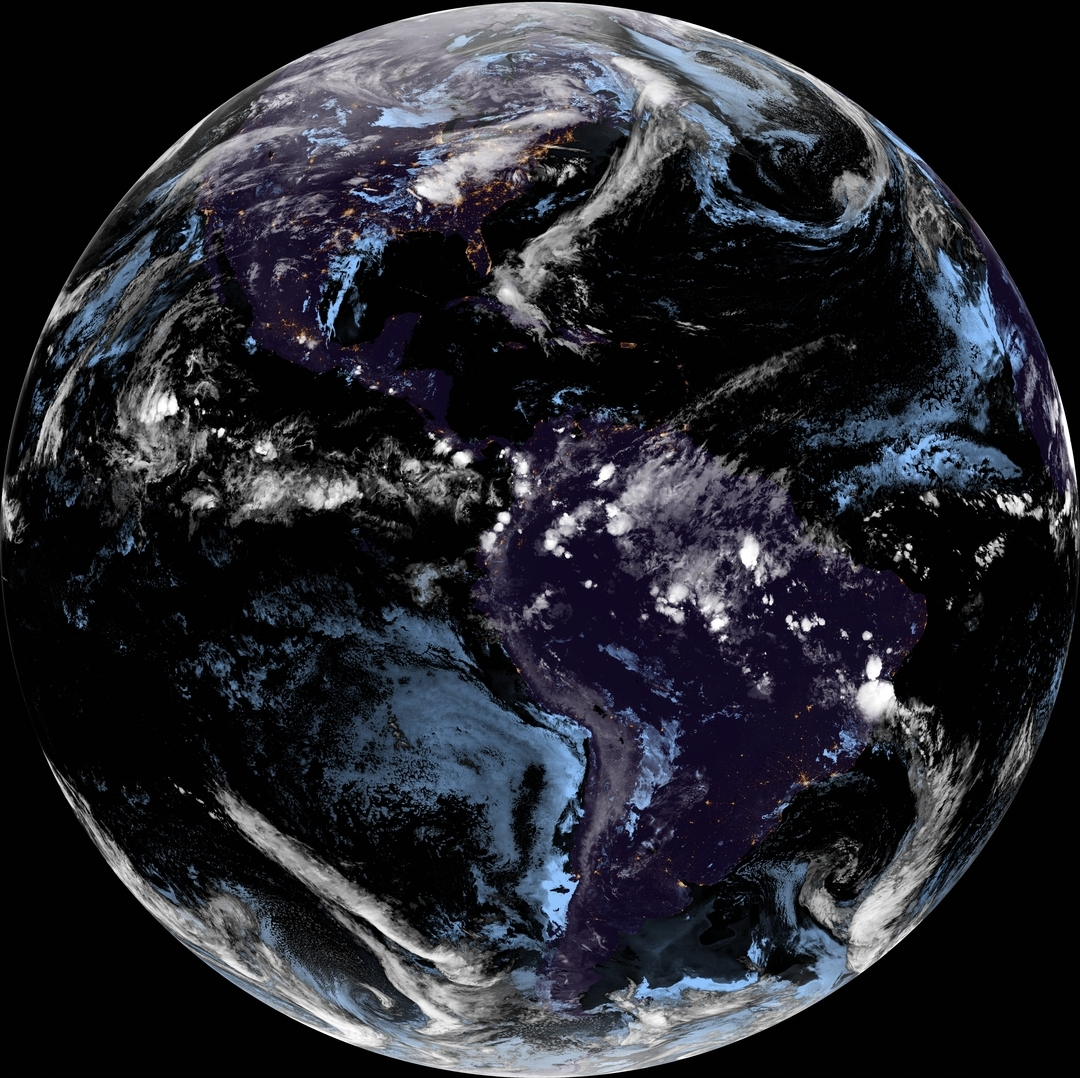
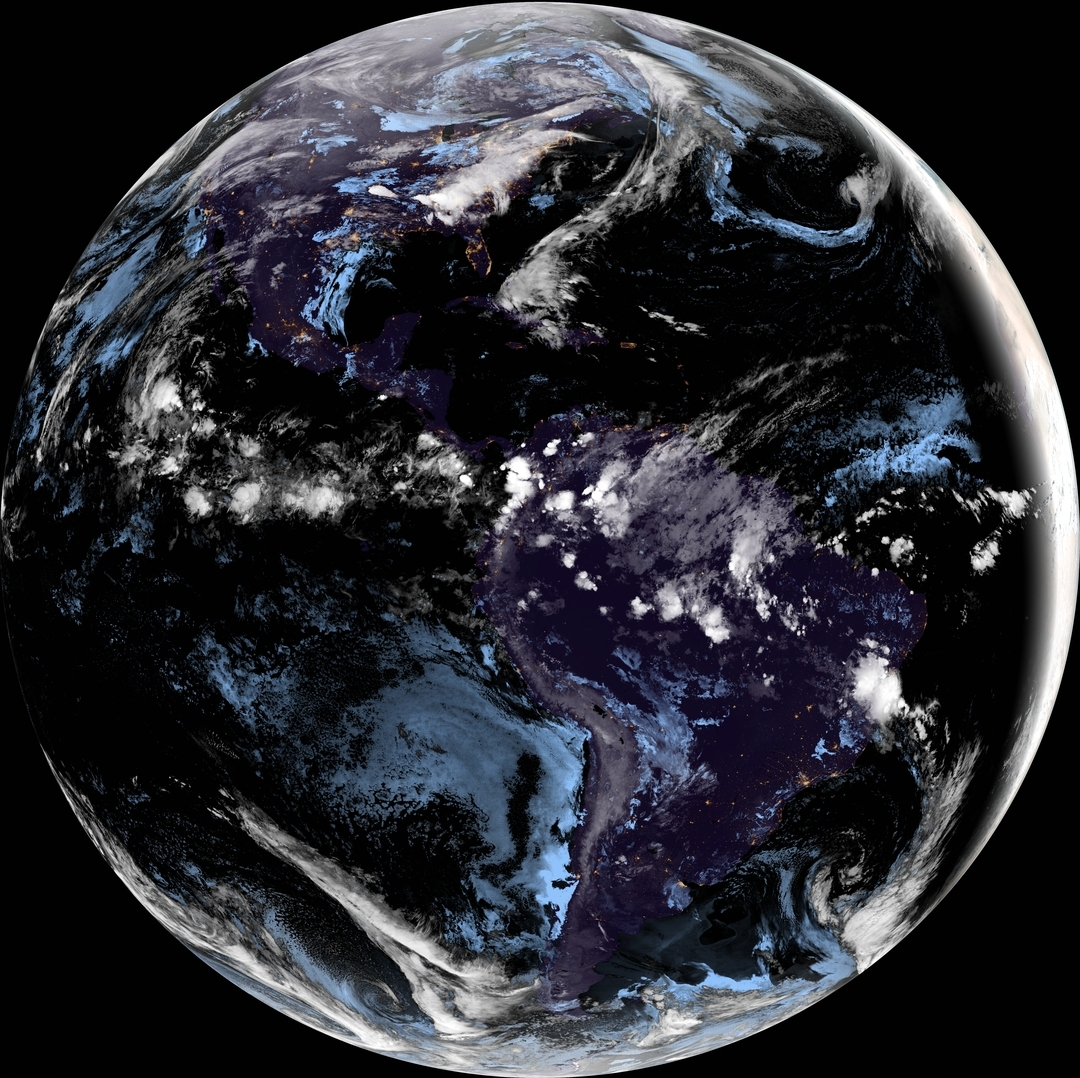
update images

diff --git a/index.html b/index.html
@@ -86,7 +86,7 @@
   </div>
 
   <p class="colophon">
-    Last updated <date datetime="2022-04-16T04:06:33.163Z">2022-04-16T04:06:33.163Z</date>.
+    Last updated <date datetime="2022-04-16T08:07:04.467Z">2022-04-16T08:07:04.467Z</date>.
     Updates every 4 hours.
   </p>
 
